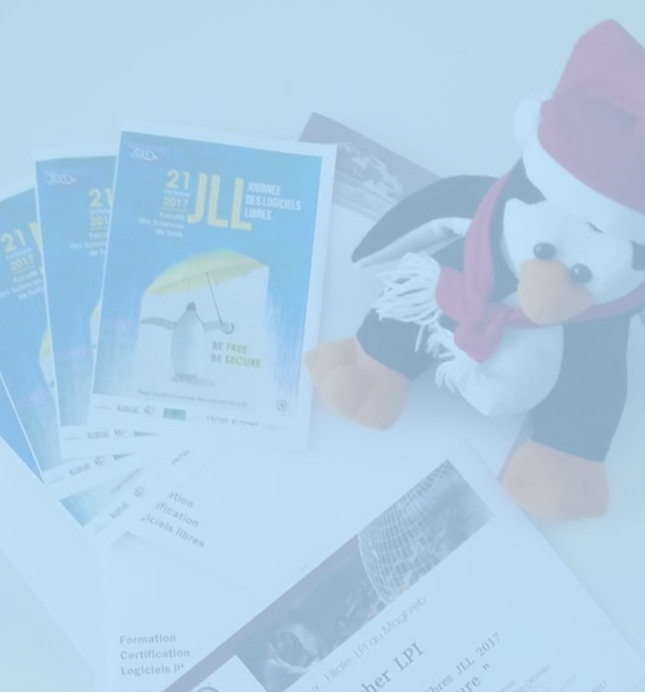
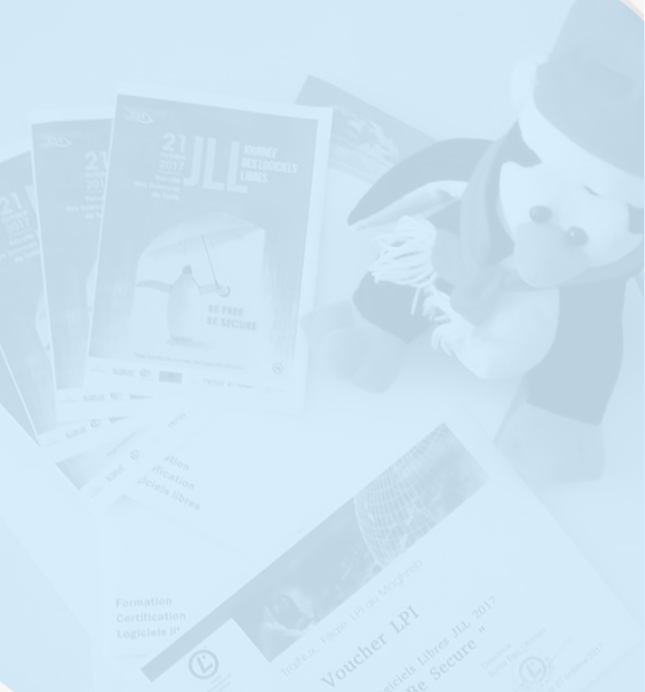
add-links

diff --git a/index.html b/index.html
@@ -151,7 +151,7 @@
         
 
         <!--Start Funfact-->
-        <section class="section parallax" data-parallax="scroll" data-image-src="img/paris.jpg">
+        <section class="section parallax" data-parallax="scroll" data-image-src="img/FSFD.JPG">
         <div class="bg-overlay"></div>
 
             <div class="container">
@@ -199,18 +199,16 @@
  <!--PEN CODE-->
 <div class="blog-card " style="margin-top: 40px">
 	<div class="photo photo1"></div>
-	<ul class="details">
-		<li class="author"><a href="#">John Doe</a></li>
-		<li class="date">Aug. 24, 2015</li>
-		<li class="tags">
-			<ul>
-				<li><a href="#">Learn</a></li>
-				<li><a href="#">Code</a></li>
-				<li><a href="#">HTML</a></li>
-				<li><a href="#">CSS</a></li>
-			</ul>
-		</li>
-	</ul>
+	<div class="details">
+            <center><h5 class="act-h5">bla bla bla bla bla bla bla bla bla</h5></center>
+            <br>
+            <center>
+                <a href="https://www.facebook.com/cllfst"><i class="act-logo fab fa-facebook-square"></i></a>
+                <br>
+                <br>
+                <a href=""> <i class="act-logo fab fa-instagram"></i></a>
+            </center>
+        </div>
 	<div class="description" >
 		<h1 class="just">JLL: Journées des Logiciels Libres</h1>
 		<p class="JLL text-muted" >
@@ -229,17 +227,16 @@
 
 <div class="blog-card alt act-margin">
 	<div class="photo photo2"></div>
-	<ul class="details">
-		<li class="author"><a href="#">Jane Doe</a></li>
-		<li class="date">July. 15, 2015</li>
-		<li class="tags">
-			<ul>
-				<li><a href="#">Learn</a></li>
-				<li><a href="#">Code</a></li>
-				<li><a href="#">JavaScript</a></li>
-			</ul>
-		</li>
-	</ul>
+	<div class="details">
+            <center><h5 class="act-h5">bla bla bla bla bla bla bla bla bla</h5></center>
+            <br>
+            <center>
+                <a href="https://www.facebook.com/cllfst"><i class="act-logo fab fa-facebook-square"></i></a>
+                <br>
+                <br>
+                <a href=""> <i class="act-logo fab fa-instagram"></i></a>
+            </center>
+        </div>
 	<div class="description">
 		<h1 class="inv">KEY: Keep Extending Yourself</h1>
 		<p class="KEY text-muted">
@@ -254,18 +251,16 @@
 
 <div class="blog-card act-margin" >
 	<div class="photo photo3"></div>
-	<ul class="details">
-		<li class="author"><a href="#">John Doe</a></li>
-		<li class="date">Aug. 24, 2015</li>
-		<li class="tags">
-			<ul>
-				<li><a href="#">Learn</a></li>
-				<li><a href="#">Code</a></li>
-				<li><a href="#">HTML</a></li>
-				<li><a href="#">CSS</a></li>
-			</ul>
-		</li>
-	</ul>
+	<div class="details">
+            <center><h5 class="act-h5">bla bla bla bla bla bla bla bla bla</h5></center>
+            <br>
+            <center>
+                <a href="https://www.facebook.com/cllfst"><i class="act-logo fab fa-facebook-square"></i></a>
+                <br>
+                <br>
+                <a href=""> <i class="act-logo fab fa-instagram"></i></a>
+            </center>
+        </div>
 	<div class="description">
 		<h1 class="just">SFD: Software Freedom Day</h1>
 		<p class="JLL text-muted">
@@ -283,17 +278,16 @@
 
 <div class="blog-card alt act-margin">
 	<div class="photo photo4"></div>
-	<ul class="details">
-		<li class="author"><a href="#"></a></li>
-		<li class="date">July. 15, 2015</li>
-		<li class="tags">
-			<ul>
-				<li><a href="#">Learn</a></li>
-				<li><a href="#">Code</a></li>
-				<li><a href="#">JavaScript</a></li>
-			</ul>
-		</li>
-	</ul>
+	<div class="details">
+            <center><h5 class="act-h5">bla bla bla bla bla bla bla bla bla</h5></center>
+            <br>
+            <center>
+                <a href="https://www.facebook.com/cllfst"><i class="act-logo fab fa-facebook-square"></i></a>
+                <br>
+                <br>
+                <a href=""> <i class="act-logo fab fa-instagram"></i></a>
+            </center>
+        </div>
 	<div class="description">
 		<h1 class="inv">Rencontres Mondiales du Logiciel Libre</h1>
 		<p class="JLL text-muted">
@@ -305,21 +299,19 @@
 
 <div class="blog-card act-margin" >
 	<div class="photo photo5"></div>
-	<ul class="details">
-		<li class="author"><a href="#">John Doe</a></li>
-		<li class="date">Aug. 24, 2015</li>
-		<li class="tags">
-			<ul>
-				<li><a href="#">Learn</a></li>
-				<li><a href="#">Code</a></li>
-				<li><a href="#">HTML</a></li>
-				<li><a href="#">CSS</a></li>
-			</ul>
-		</li>
-	</ul>
+	<div class="details">
+            <center><h5 class="act-h5">bla bla bla bla bla bla bla bla bla</h5></center>
+            <br>
+            <center>
+                <a href="https://www.facebook.com/cllfst"><i class="act-logo fab fa-facebook-square"></i></a>
+                <br>
+                <br>
+                <a href=""> <i class="act-logo fab fa-instagram"></i></a>
+            </center>
+    </div>
 	<div class="description">
 		<h1 class="just">Richard Stallman Conference</h1>
-		<p class="JLL text-muted">
+		<p  class="JLL text-muted">
                 Mid-February, the media woke up on the news of the arrival of RMS in Tunis.
                 Richard Stallman, who initiated the free software movement in 1983, was invited and welcomed by
                 the Free Software Club which also invited the Minister of Information Technologies
@@ -332,17 +324,16 @@
 
 <div class="blog-card alt act-margin">
 	<div class="photo photo6"></div>
-	<ul class="details">
-		<li class="author"><a href="#">Jane Doe</a></li>
-		<li class="date">July. 15, 2015</li>
-		<li class="tags">
-			<ul>
-				<li><a href="#">Learn</a></li>
-				<li><a href="#">Code</a></li>
-				<li><a href="#">JavaScript</a></li>
-			</ul>
-		</li>
-	</ul>
+	<div class="details">
+            <center><h5 class="act-h5">bla bla bla bla bla bla bla bla bla</h5></center>
+            <br>
+            <center>
+                <a href="https://www.facebook.com/cllfst"><i class="act-logo fab fa-facebook-square"></i></a>
+                <br>
+                <br>
+                <a href=""> <i class="act-logo fab fa-instagram"></i></a>
+            </center>
+        </div>
 	<div class="description ">
 		<h1 class="inv">Workshops</h1>
 		<p class="JLL text-muted">
@@ -353,17 +344,16 @@
 
 <div class="blog-card act-margin">
 	<div class="photo photo7"></div>
-	<ul class="details">
-		<li class="author"><a href="#">Jane Doe</a></li>
-		<li class="date">July. 15, 2015</li>
-		<li class="tags">
-			<ul>
-				<li><a href="#">Learn</a></li>
-				<li><a href="#">Code</a></li>
-				<li><a href="#">JavaScript</a></li>
-			</ul>
-		</li>
-	</ul>
+	<div class="details">
+            <center><h5 class="act-h5">bla bla bla bla bla bla bla bla bla</h5></center>
+            <br>
+            <center>
+                <a href="https://www.facebook.com/cllfst"><i class="act-logo fab fa-facebook-square"></i></a>
+                <br>
+                <br>
+                <a href=""> <i class="act-logo fab fa-instagram"></i></a>
+            </center>
+        </div>
 	<div class="description  ">
 		<h1 class="just">Entertainment Activities</h1>
 		<p class="JLL text-muted">
@@ -380,7 +370,7 @@
 <!--END SECTION-->
 
         <!--START VIDEO SECTION-->
-        <section class="section parallax" data-parallax="scroll" data-image-src="img/paris.jpg" style="margin-top:120px">
+        <section class="section parallax" data-parallax="scroll" data-image-src="img/vid.png" style="margin-top:120px">
             <div class="bg-overlay"></div>
             <div class="container">
                 <div class="row padding-t-b-100">
@@ -427,9 +417,7 @@
                                             <h4>
                                                 BLIND ASSISTANT
                                             </h4>
-                                            <p>Sed tempus vestibulum lacus blandit faucibus. 
-                                                Nunc imperdiet, diam nec rhoncus ullamcorper, nisl nulla suscipit ligula, 
-                                                at imperdiet urna. 
+                                            <p>WE NEED A PARAGRAPH 
                                             </p>
                                             <!--<a><center>
                                                 <button id="project-btn" class="btn">
@@ -614,9 +602,7 @@
                                             <h4>
                                             CLL TUX
                                             </h4>
-                                            <p>Sed tempus vestibulum lacus blandit faucibus. 
-                                                Nunc imperdiet, diam nec rhoncus ullamcorper, nisl nulla suscipit ligula, 
-                                                at imperdiet urna. 
+                                            <p>WE NEED A PARAGRAPH
                                             </p>
                                             
                                         </div>
@@ -691,8 +677,8 @@
                     <div class="text-center">
                         <img src="img/contact.png" class="img-responsive center-block title-img" />
                         <div id="get-in-touch">
-                            <p>Question?  Comment?  We're Always Happy to Help</p>
-                            <p>GET IN TOUCH WITH US</p>
+                            <p class="bluee">Question?  Comment?  We're Always Happy to Help</p>
+                            <p class="bluee">GET IN TOUCH WITH US</p>
                         </div>
                     </div>
                 </div>
@@ -702,7 +688,7 @@
                     <div class="col-md-4">
 
                         <div>
-                            <h2 class="contact-title">SAY HELLO!</h2>
+                            <h2 class="contact-title bluee">SAY HELLO!</h2>
                             <div class="form-group">
                                 <input type="text" class="form-control" id="username" placeholder="Name" required />
                             </div>
@@ -737,7 +723,7 @@
                 </form>
                     
                         <div class="col-md-4 col-md-offset-3">
-                            <h2 class="contact-title">CONTACT US</h2>
+                            <h2 class="contact-title bluee">CONTACT US</h2>
 
                             <div class="row margin-t-50" >
                                 <div class="col-md-offset-1 col-xs-2" > 
@@ -757,7 +743,8 @@
                                     </div>
                                     <div class="col-xs-offset-1 col-xs-7" >
                                         <p>E-mail : </p>
-                                        <p> Bilelmek@gmail.com</p>
+                                        <p>
+                                            cllfst.officiel@gmail.com</p>
                                     </div>
                                            
                             </div>
@@ -785,12 +772,12 @@
                             <center>
                                 <div class="col-md-12 connect-social">
                                     <ul class="social">
-                                        <li><a class="icon fb" href="#"><i class="fab fa-facebook-f "></i></a></li>
-                                        <li><a class="icon fb" href="#"><i class="fab fa-github-alt"></i></a></li>
+                                        <li><a class="icon fb" href="https://www.facebook.com/cllfst"><i class="fab fa-facebook-f "></i></a></li>
+                                        <li><a class="icon fb" href="https://github.com/CLLFST"><i class="fab fa-github-alt"></i></a></li>
                                         <li><a class="icon fb" href="#"><i class="fab fa-linkedin-in"></i></a></li>
                                         <li><a class="icon fb" href="#"><i class="fab fa-instagram"></i></a></li>
-                                        <li><a class="icon fb" href="#"><i class="fab fa-google"></i></a></li>
-                                        <li><a class="icon fb" href="#"><i style="margin-left: -2px" class="fab fa-youtube"></i></a></li>
+                                        <li><a class="icon fb" href="https://plus.google.com/u/1/102625628497646424827"><i class="fab fa-google"></i></a></li>
+                                        <li><a class="icon fb" href="https://www.youtube.com/channel/UCodBRFUa7It6e9M82iseCPg"><i style="margin-left: -2px" class="fab fa-youtube"></i></a></li>
                                         
    
                                     </ul>

diff --git a/css/style1.css b/css/style1.css
@@ -198,8 +198,8 @@
 
 /*--contact-back--*/
 .contact-bg{
-    background-image: url("../img/footer.jpg");
-    background-size: 100%;
+background-image: url('../img/footer.jpg');
+background-size: cover;
 }
 /*--contact-back--*/
 
@@ -364,7 +364,7 @@
 }
 .contact-title{
     font-weight: bold;
-    font-family: Cambria, Cochin, Georgia, Times, 'Times New Roman', serif;
+    font-family: "Roboto";
     font-size: 200%;
     color: #ffffff;
     text-align: center;
@@ -401,9 +401,22 @@
 
 }
 
+.bluee{
+    color: #1b435d ;
+}
 
+.act-logo{
+    color:white;
+    font-size: 400% ;
+}
+.act-logo:hover{
+    color: #78bbe6;
+}
 
-
+.act-h5{
+    font-weight: bold;
+    margin-top:30px;
+}
 /* ---------------- RESPONSIVE ---------------------  */
 
 @media(max-width:1600px){

diff --git a/css/activities.css b/css/activities.css
@@ -79,7 +79,6 @@
   padding: 3px 0;
 }
 .blog-card .details li:before, .blog-card .details .tags ul:before {
-  font-family: FontAwesome;
   margin-right: 10px;
   vertical-align: middle;
 }
@@ -103,7 +102,6 @@
 }
 .blog-card .details a {
   color: inherit;
-  border-bottom: 1px dotted;
 }
 .blog-card .details a:hover {
   color: #75D13B;
